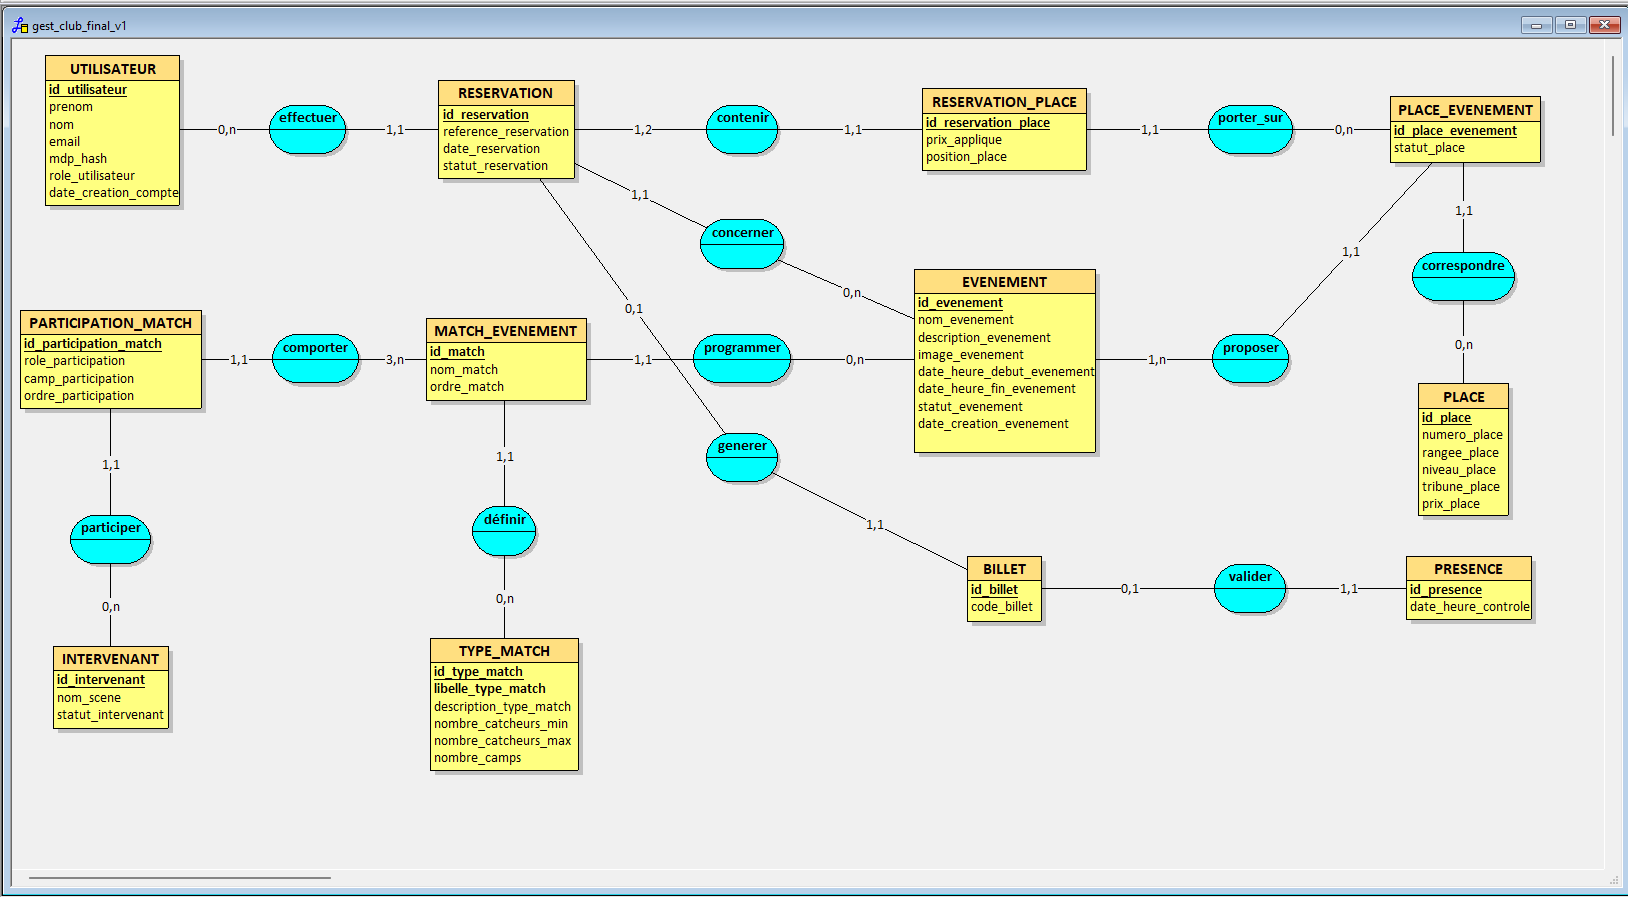
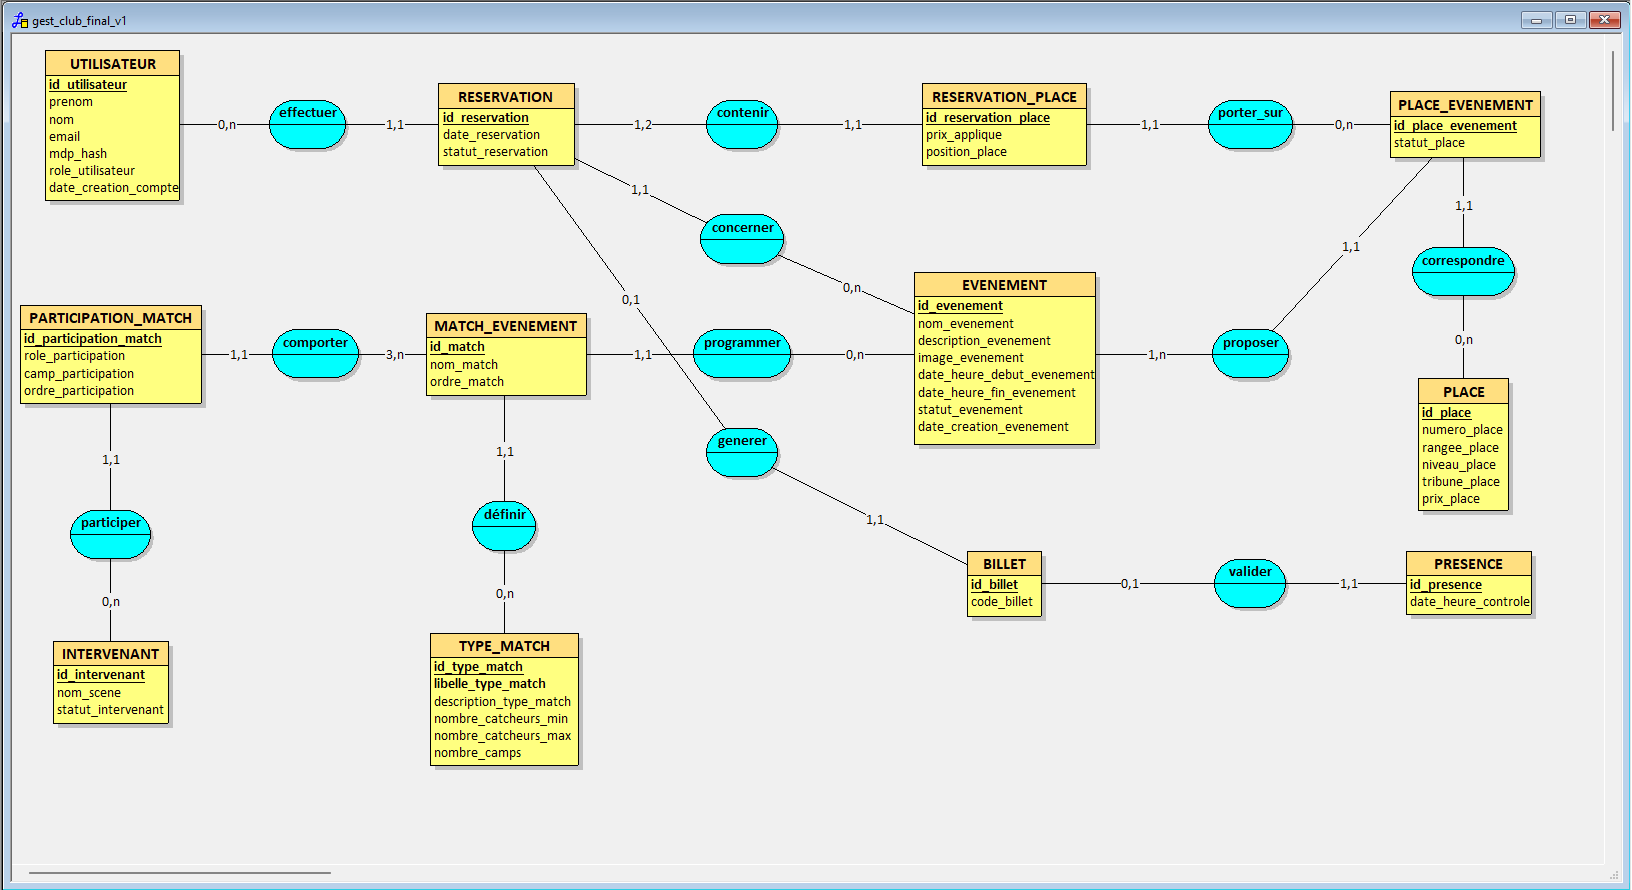
refactor: simplify reservation and ticket references

diff --git a/app/Views/pages/admin/presences-scan.php b/app/Views/pages/admin/presences-scan.php
@@ -32,8 +32,8 @@
                 <form class="form" action="#" method="post">
                     <div class="field">
                         <label class="field__label" for="code">N° du billet ou de la réservation</label>
-                        <input class="input" type="text" id="code" name="code" placeholder="Ex. BIL-01170 ou R-2026-108"
-                            aria-describedby="code-help" required>
+                        <input class="input" type="text" id="code" name="code"
+                            placeholder="Ex. BIL-000008 ou R-2026-000008" aria-describedby="code-help" required>
                     </div>
                     <button class="btn btn--primary" type="submit">Rechercher le billet</button>
                 </form>
